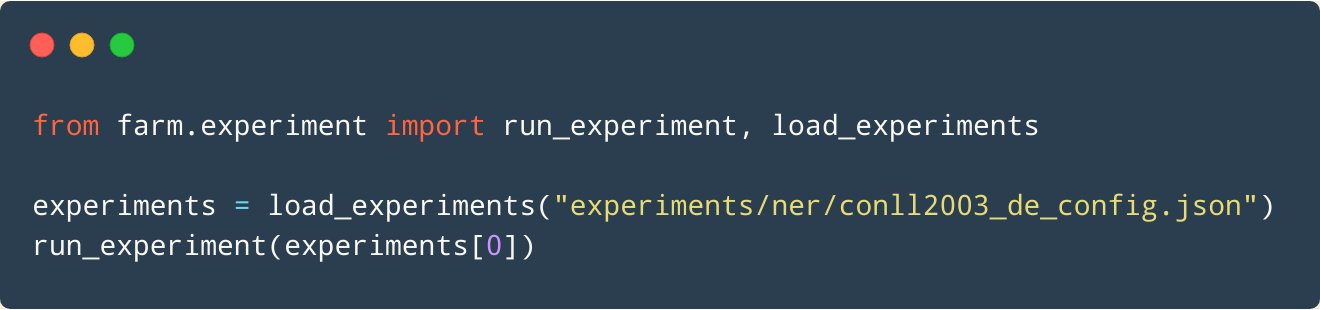
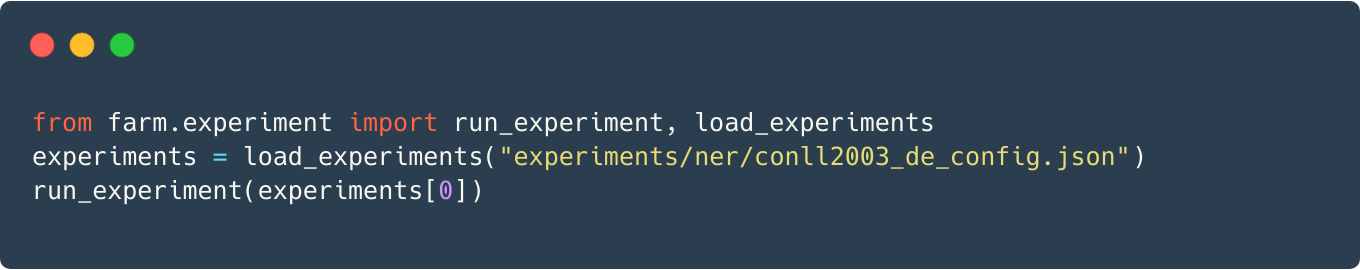
fix img size

diff --git a/readme.rst b/readme.rst
@@ -58,15 +58,15 @@ FARM offers two modes for model training:
 
 .. raw:: html
 
-    <img src="docs/code_snippet_experiment.png" width="80%">
+    <img src="docs/code_snippet_experiment.png">
 
 *Use cases:* Training your first model, hyperparameter optimization, evaluating a language model on multiple down-stream tasks.
 
 **Option 2: Stick together your own building blocks**
 
-.. image:: docs/code_snippet_building_blocks.png
-    :width: 418
-    :alt: Code Snippet building blocks
+.. raw:: html
+
+    <img src="docs/code_snippet_building_blocks.png">
 
 See this `Jupyter notebook <https://github.com/deepset-ai/FARM/blob/master/tutorials/1_farm_building_blocks.ipynb>`_
 or the same code in a `Colab notebook <https://colab.research.google.com/drive/130_7dgVC3VdLBPhiEkGULHmqSlflhmVM>`_
